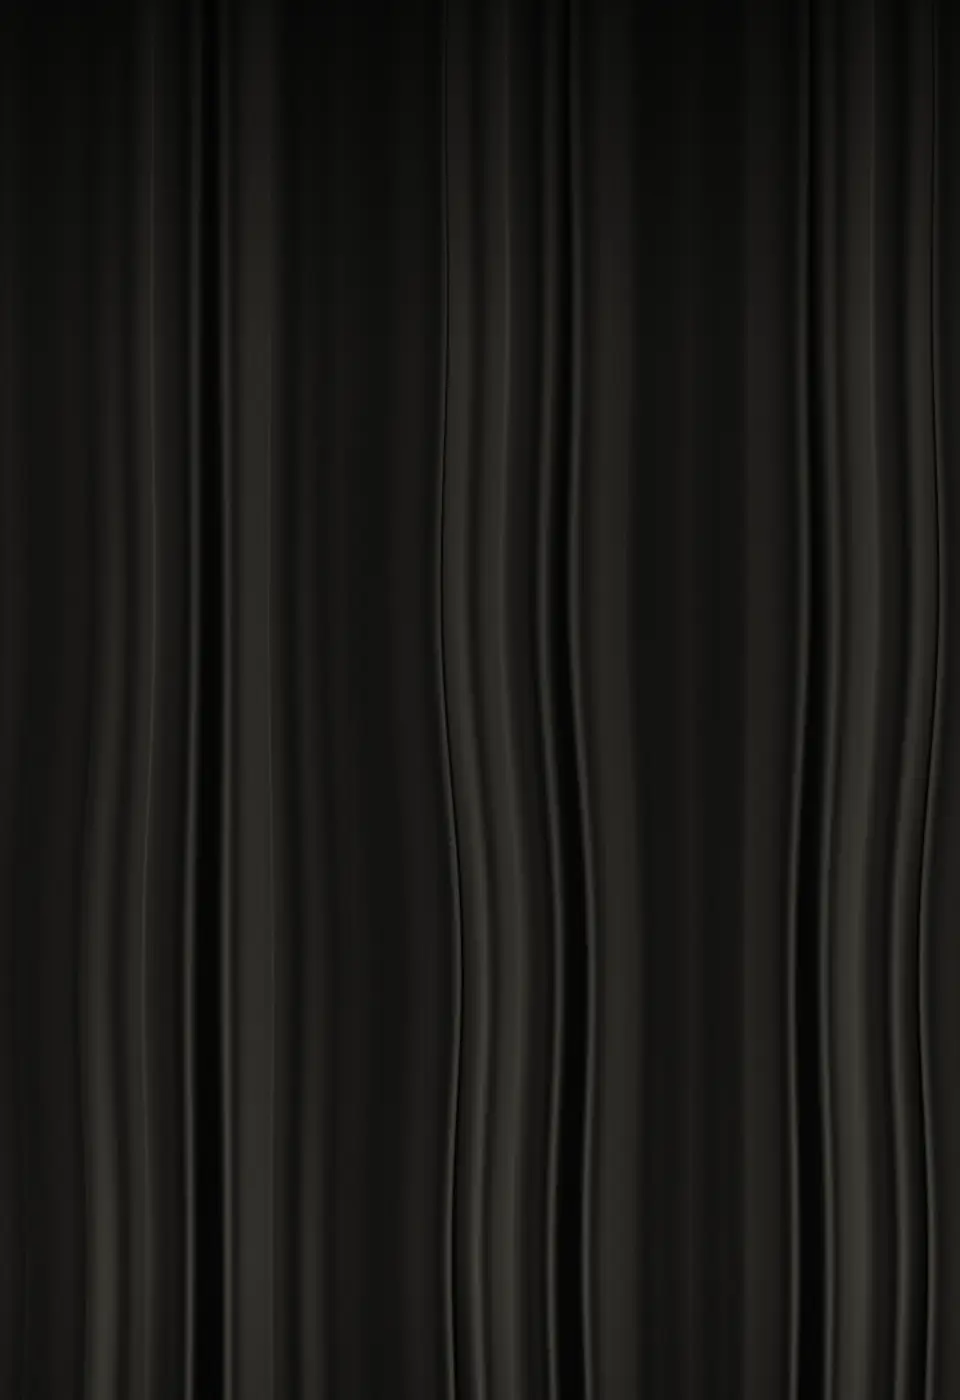
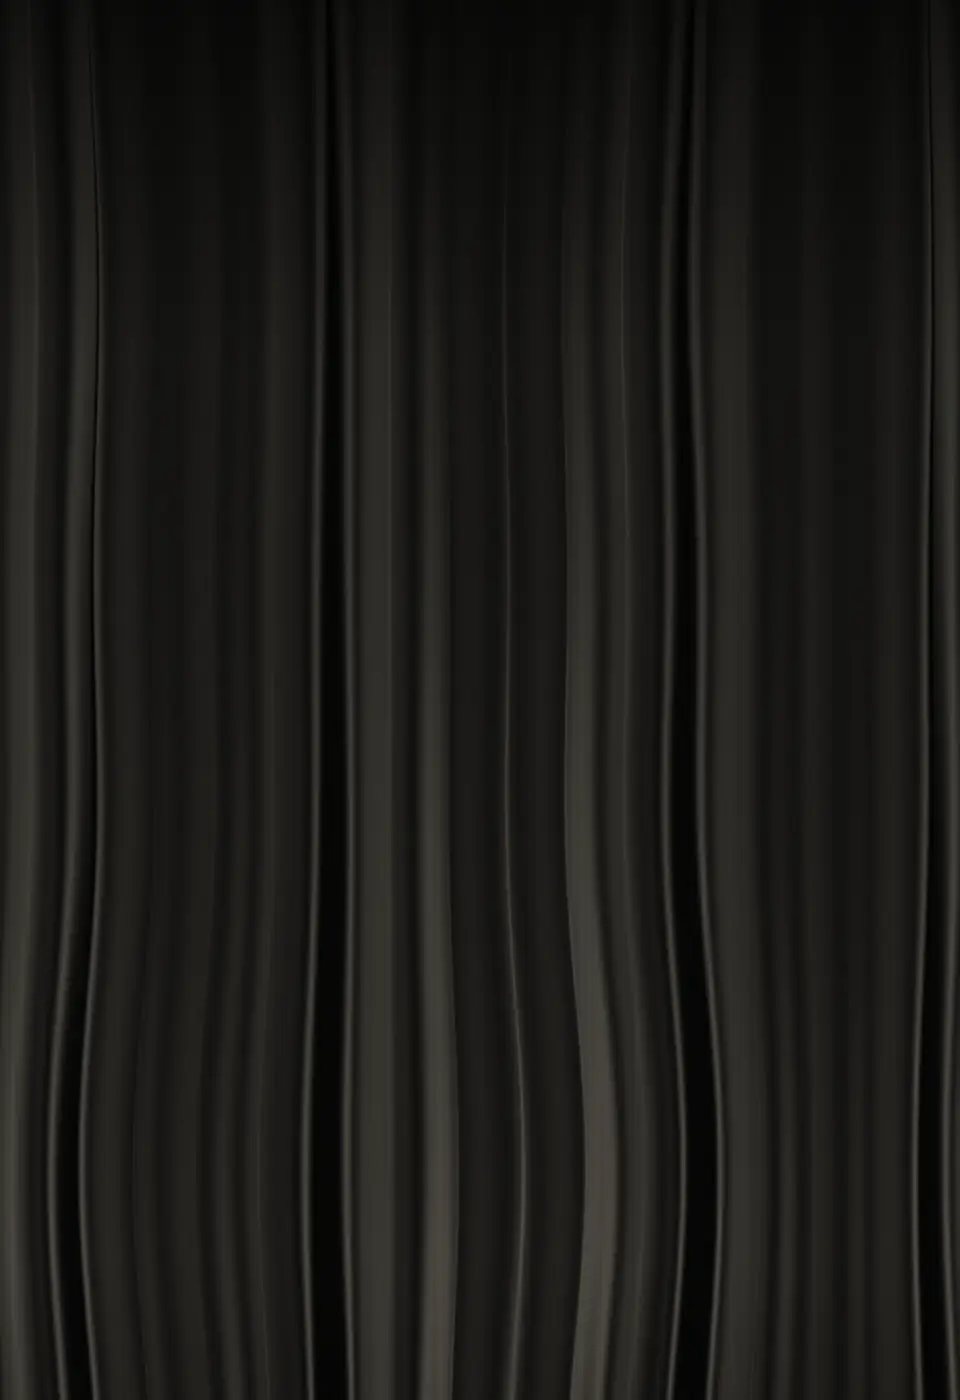
Relectures design/motion appliquées : tissu plus contrasté (plis larges et fins), monogramme plus grand, pans qui s'effacent, bandeau d'audience attend la fin, pastilles, calendrier, boutons

diff --git a/src/styles/seuil.css b/src/styles/seuil.css
@@ -223,19 +223,22 @@ html.avec-ouverture.ouv-rideau .s-rideau { display: block; position: fixed; inse
 .ouv-sans-texture .s-pan { background-image: repeating-linear-gradient(90deg, #0a0a09 0, #1d1b18 5%, #0a0a09 9%, #151412 14%, #060606 17%) !important; }
 /* ombre portée au milieu et sur les bords, qui se resserre avec le tissu */
 .s-pan::before { content: ""; position: absolute; inset: 0; pointer-events: none; }
-.s-pan.g::before { background: linear-gradient(90deg, rgba(0,0,0,.55), rgba(0,0,0,0) 22%, rgba(0,0,0,0) 78%, rgba(0,0,0,.5)); }
-.s-pan.d::before { background: linear-gradient(90deg, rgba(0,0,0,.5), rgba(0,0,0,0) 22%, rgba(0,0,0,0) 78%, rgba(0,0,0,.55)); }
+.s-pan.g::before { background: linear-gradient(90deg, rgba(0,0,0,.7), rgba(0,0,0,0) 14%, rgba(0,0,0,0) 80%, rgba(0,0,0,.6)); }
+.s-pan.d::before { background: linear-gradient(90deg, rgba(0,0,0,.6), rgba(0,0,0,0) 20%, rgba(0,0,0,0) 86%, rgba(0,0,0,.7)); }
 /* reflet satiné qui traverse le tissu pendant qu'il bouge */
-.s-pan .rf { position: absolute; inset: 0; pointer-events: none; opacity: 0; background: linear-gradient(100deg, rgba(255,246,214,0) 30%, rgba(255,246,214,.10) 48%, rgba(255,246,214,0) 62%); transform: translateX(-60%); }
+.s-pan .rf { position: absolute; inset: 0; pointer-events: none; opacity: 0; background: linear-gradient(100deg, rgba(228,212,154,0) 40%, rgba(228,212,154,.20) 50%, rgba(228,212,154,0) 60%); transform: translateX(-60%); }
 /* Le monogramme est DERRIÈRE le rideau : il se découvre au milieu quand le tissu s'écarte, puis la scène s'efface sur le site. */
 .s-rideau-scene { position: absolute; inset: 0; z-index: 0; display: grid; place-items: center; background: var(--s-nuit, #141414); }
-.s-rideau-mono { height: clamp(72px, 10vw, 110px); width: auto; filter: drop-shadow(0 0 24px rgba(212,190,110,.28)); }
+.s-rideau-mono { height: clamp(92px, 14vw, 150px); width: auto; }
 html.ouv-pret .s-rideau-scene { animation: s-rideau-scene 1.9s linear forwards; }
 @keyframes s-rideau-scene { 0%, 66% { opacity: 1; } 100% { opacity: 0; } }
 html.ouv-pret .s-rideau-mono { animation: s-rideau-mono 1.6s cubic-bezier(.3,.1,.2,1) both; }
 @keyframes s-rideau-mono { 0% { transform: scale(.96); } 100% { transform: scale(1.03); } }
-html.ouv-pret .s-pan.g { animation: s-pan-g 1.25s cubic-bezier(.62,.02,.18,1) .45s forwards; }
-html.ouv-pret .s-pan.d { animation: s-pan-d 1.3s cubic-bezier(.62,.02,.18,1) .5s forwards; }
+html.ouv-pret .s-pan.g { animation: s-pan-g 1.25s cubic-bezier(.62,.02,.18,1) .45s forwards, s-pan-sortie .35s ease 1.75s forwards; }
+html.ouv-pret .s-pan.d { animation: s-pan-d 1.3s cubic-bezier(.62,.02,.18,1) .55s forwards, s-pan-sortie .35s ease 1.85s forwards; }
+@keyframes s-pan-sortie { to { opacity: 0; } }
+/* le bandeau d'audience attend la fin de l'ouverture (il ne se superpose pas au tissu) */
+html.avec-ouverture:not(.ouverture-finie) .bandeau-audience { visibility: hidden; }
 html.ouv-pret .s-pan .rf { animation: s-rideau-reflet 1.3s ease-in-out .5s forwards; }
 @keyframes s-pan-g { to { transform: translateX(-4%) scaleX(.13); } }
 @keyframes s-pan-d { to { transform: translateX(4%) scaleX(.12); } }
@@ -435,8 +438,8 @@ html.s-anime .s-deroule.vu .s-etape::after { transition: transform .5s var(--s-c
   .s-nav a:not(.s-btn):hover::after, .s-nav a[aria-current="page"]::after { transform: scaleX(1); }
   .s-nav a[aria-current="page"] { color: var(--s-laiton-clair); }
   .s-nav .s-btn { min-height: 44px; padding: 0 20px; font-size: 13px; }
-  .s-nav-acces { position: relative; font-size: 12.5px; letter-spacing: .08em; }
-  .s-nav-acces summary { list-style: none; display: inline-flex; align-items: center; gap: 6px; min-height: 40px; cursor: pointer; color: var(--s-gris-nuit); }
+  .s-nav-acces { position: relative; font-size: 13px; letter-spacing: .08em; }
+  .s-nav-acces summary { list-style: none; display: inline-flex; align-items: center; gap: 6px; min-height: 40px; cursor: pointer; color: #BDB3A0; }
   .s-nav-acces summary::-webkit-details-marker { display: none; }
   .s-nav-acces summary::after { content: ""; width: 6px; height: 6px; border-right: 1px solid currentColor; border-bottom: 1px solid currentColor; transform: translateY(-2px) rotate(45deg); transition: transform .2s; }
   .s-nav-acces[open] summary::after { transform: translateY(1px) rotate(-135deg); }
@@ -673,4 +676,4 @@ html.s-anime .s-wp-page [data-revele].vu { transition-duration: .5s; }
 .s-pied-wp .s-surtitre { margin-top: 2px; }
 
 /* Heavent Studio : boutons Seuil sur fond sombre */
-.studio-filet { --ligne: rgba(228,212,154,.55); --btn-texte: #E6DDCB; --fond: #141414; }
+.studio-filet { --ligne: rgba(228,212,154,.75); --btn-texte: #E6DDCB; --fond: #141414; }

diff --git a/src/components/heavent-city/HeaventCity.tsx b/src/components/heavent-city/HeaventCity.tsx
@@ -203,8 +203,8 @@ export default function HeaventCity() {
               </div>
             </div>
             <div className="pointer-events-none absolute bottom-2 start-3 rounded-full bg-black/45 px-3 py-1 text-[12px] text-[#F0E8D6]" aria-live="polite">{r.tables === "conference" ? tr("{n} chaises · {n} participants", { n: r.invites }) : tr("{nb} {type} · {n} invités", { nb: r.tablesTotal, type: infoTable(r.tables).compte, n: r.invites })}</div>
-            {!presentation && !deplacer && <button onClick={() => setPresentation(true)} data-testid="mode-presentation" className="absolute bottom-2 end-3 rounded-full bg-black/45 px-3 min-h-9 text-[12px] text-[#F0E8D6] hover:bg-black/60">{tr("Mode présentation")}</button>}
-            {presentation && <button onClick={() => setPresentation(false)} data-testid="quitter-presentation" aria-label={tr("Quitter le mode présentation")} className="absolute end-3 top-3 z-20 rounded-full bg-black/35 px-3 min-h-10 text-[12px] text-[#F0E8D6] opacity-70 hover:opacity-100 focus-visible:opacity-100">{tr("Quitter (Échap)")}</button>}
+            {!presentation && !deplacer && <button onClick={() => setPresentation(true)} data-testid="mode-presentation" className="absolute bottom-2 end-3 rounded-full border border-[#A8933F]/60 bg-black/60 px-3.5 min-h-10 text-[13px] text-[#F0E8D6] hover:bg-black/75">{tr("Mode présentation")}</button>}
+            {presentation && <button onClick={() => setPresentation(false)} data-testid="quitter-presentation" aria-label={tr("Quitter le mode présentation")} className="hc-fondu absolute end-3 top-3 z-20 rounded-full border border-[#A8933F]/60 bg-black/55 px-3.5 min-h-11 text-[13px] text-[#F0E8D6] hover:bg-black/75">{tr("Quitter (Échap)")}</button>}
             {deplacer && (
               <div className={`absolute inset-x-3 top-[64px] z-10 mx-auto flex max-w-md items-center justify-between gap-2 rounded-2xl border bg-[#17141a]/95 px-3 py-1.5 shadow-xl ${refus ? "border-[#E24E4E]" : "border-[#F4D774]/60"}`} data-testid="bandeau-deplacer" role="status">
                 <span className={`min-w-0 text-[12.5px] leading-tight ${refus ? "font-medium text-white" : "text-[#F6EFDD]"}`} data-testid="message-deplacer">{refus ? tr("Place occupée, l'objet est revenu.") : tr("Fais glisser une table ou un objet. Un doigt sur le sol déplace la vue.")}</span>

diff --git a/src/styles/admin-seuil.css b/src/styles/admin-seuil.css
@@ -188,15 +188,15 @@
 .st-espace .st-cal .rdp-head_cell, .st-espace .st-cal th { color: var(--s-laiton-texte); font: 500 10.5px var(--s-texte); letter-spacing: .1em; text-transform: uppercase; }
 .st-espace .st-cal button[aria-selected="true"], .st-espace .st-cal .rdp-day_selected { background: var(--s-nuit) !important; color: var(--s-papier) !important; border-radius: 0; }
 .st-jour-dispo { position: relative; }
-.st-jour-dispo::after { content: ""; position: absolute; bottom: 4px; left: 50%; width: 5px; height: 5px; margin-left: -2.5px; background: var(--s-zellige); transform: rotate(45deg); }
+.st-jour-dispo::after { content: ""; position: absolute; bottom: 4px; left: 50%; width: 7px; height: 7px; margin-left: -3.5px; background: var(--s-zellige); transform: rotate(45deg); }
 .st-legende i { display: inline-block; width: 7px; height: 7px; transform: rotate(45deg); margin-inline-end: 8px; }
 .st-legende i.rond { transform: none; border-radius: 50%; width: 10px; height: 10px; border: 1.5px solid var(--s-laiton-texte); background: transparent; }
 .st-legende i.coche { transform: none; width: 12px; height: 12px; background: var(--s-nuit); position: relative; }
 .st-legende i.coche::after { content: "✓"; position: absolute; inset: 0; display: grid; place-items: center; font-size: 9px; color: var(--s-papier); }
 /* Trois états lisibles sans la couleur : aujourd'hui = anneau, jour choisi = fond plein + coche, disponibilité enregistrée = losange */
-.st-espace .st-cal .st-jour-aujourdhui:not([aria-selected="true"]) { box-shadow: inset 0 0 0 1.5px var(--s-laiton-texte); border-radius: 999px; font-weight: 600; }
+.st-espace .st-cal .st-jour-aujourdhui:not([aria-selected="true"]) { box-shadow: inset 0 0 0 1.5px var(--s-laiton-texte); border-radius: 0; font-weight: 600; }
 .st-espace .st-cal button[aria-selected="true"] { position: relative; }
-.st-espace .st-cal button[aria-selected="true"]::before { content: "✓"; position: absolute; top: 1px; inset-inline-end: 3px; font-size: 9px; line-height: 1; color: var(--s-laiton-clair); }
+.st-espace .st-cal button[aria-selected="true"]::before { content: "✓"; position: absolute; top: 1px; inset-inline-end: 3px; font-size: 11px; line-height: 1; color: var(--s-laiton-clair); }
 .st-espace .st-cal.border { border: 0; }
 .st-espace .st-cal { padding: 4px 0; }
 

diff --git a/index.html b/index.html
@@ -41,6 +41,9 @@
           document.addEventListener("keydown", echap);
           var posee = function () { var r = racine(); if (r && !d.classList.contains("ouverture-finie")) r.setAttribute("inert", ""); };
           posee(); document.addEventListener("DOMContentLoaded", posee);
+          // onglet masqué puis revenu après la fin prévue : on retire le rideau tout de suite
+          var t0 = Date.now();
+          document.addEventListener("visibilitychange", function () { if (document.visibilityState === "visible" && Date.now() - t0 > 2300) window.finOuverture(true); });
           if (!rideau) { setTimeout(window.finOuverture, 1500); return; }
           // Le tissu est préparé (deux images légères) avant de bouger ; sans lui, un tissu dégradé le remplace. Garde-fou : jamais plus de 3,6 s.
           var prets = 0, lance = false;

diff --git a/src/components/heavent-city/Panneau.tsx b/src/components/heavent-city/Panneau.tsx
@@ -28,7 +28,7 @@ function Carte({ id, nom, phrase, on, onClick, res, radio, testid, pastilles }: 
         {on && <Check className="ms-auto h-4 w-4 shrink-0 text-[#E4D49A]" aria-hidden="true" />}
       </span>
       <span className="text-[12px] leading-snug text-[#B9B09C]">{phrase}</span>
-      {pastilles && <span className="flex gap-1" aria-hidden="true">{pastilles.map((c, i) => <i key={i} className="h-4 w-4 rounded-full border border-white/25" style={{ background: c }} />)}</span>}
+      {pastilles && <span className="flex gap-1" aria-hidden="true">{pastilles.map((c, i) => <i key={i} className="h-[18px] w-[18px] rounded-full border border-[#A8933F]" style={{ background: c }} />)}</span>}
       <Pastille reservable={res} court />
     </button>
   );
